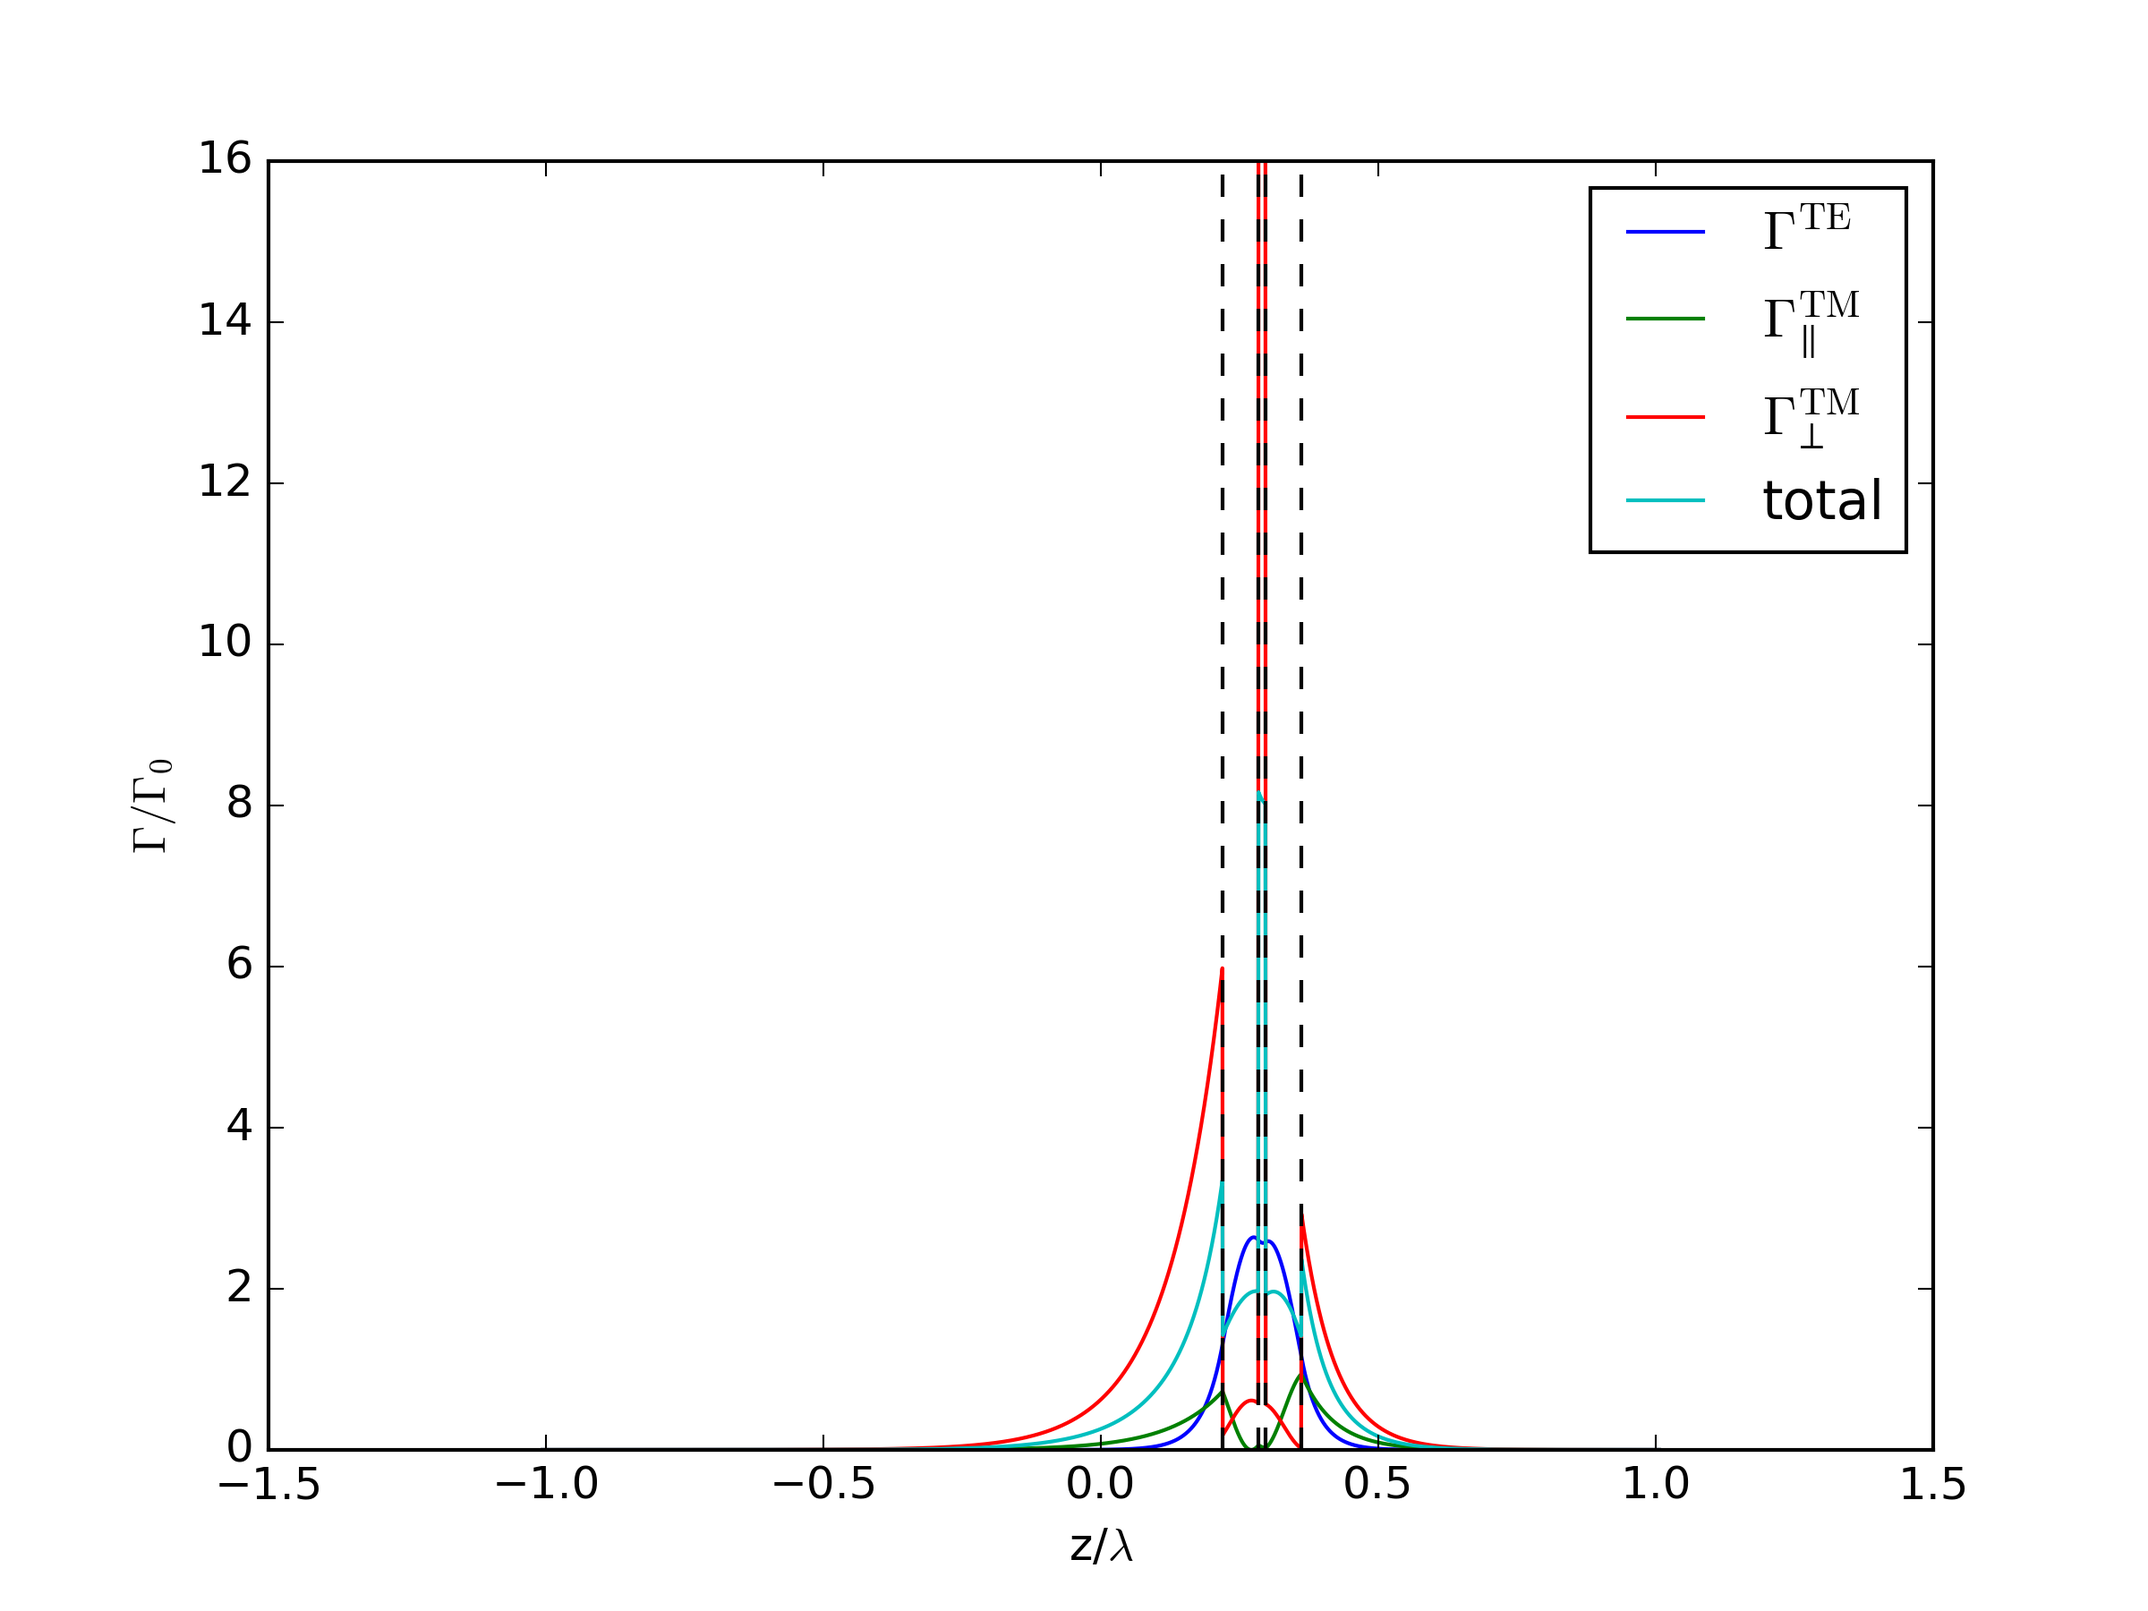
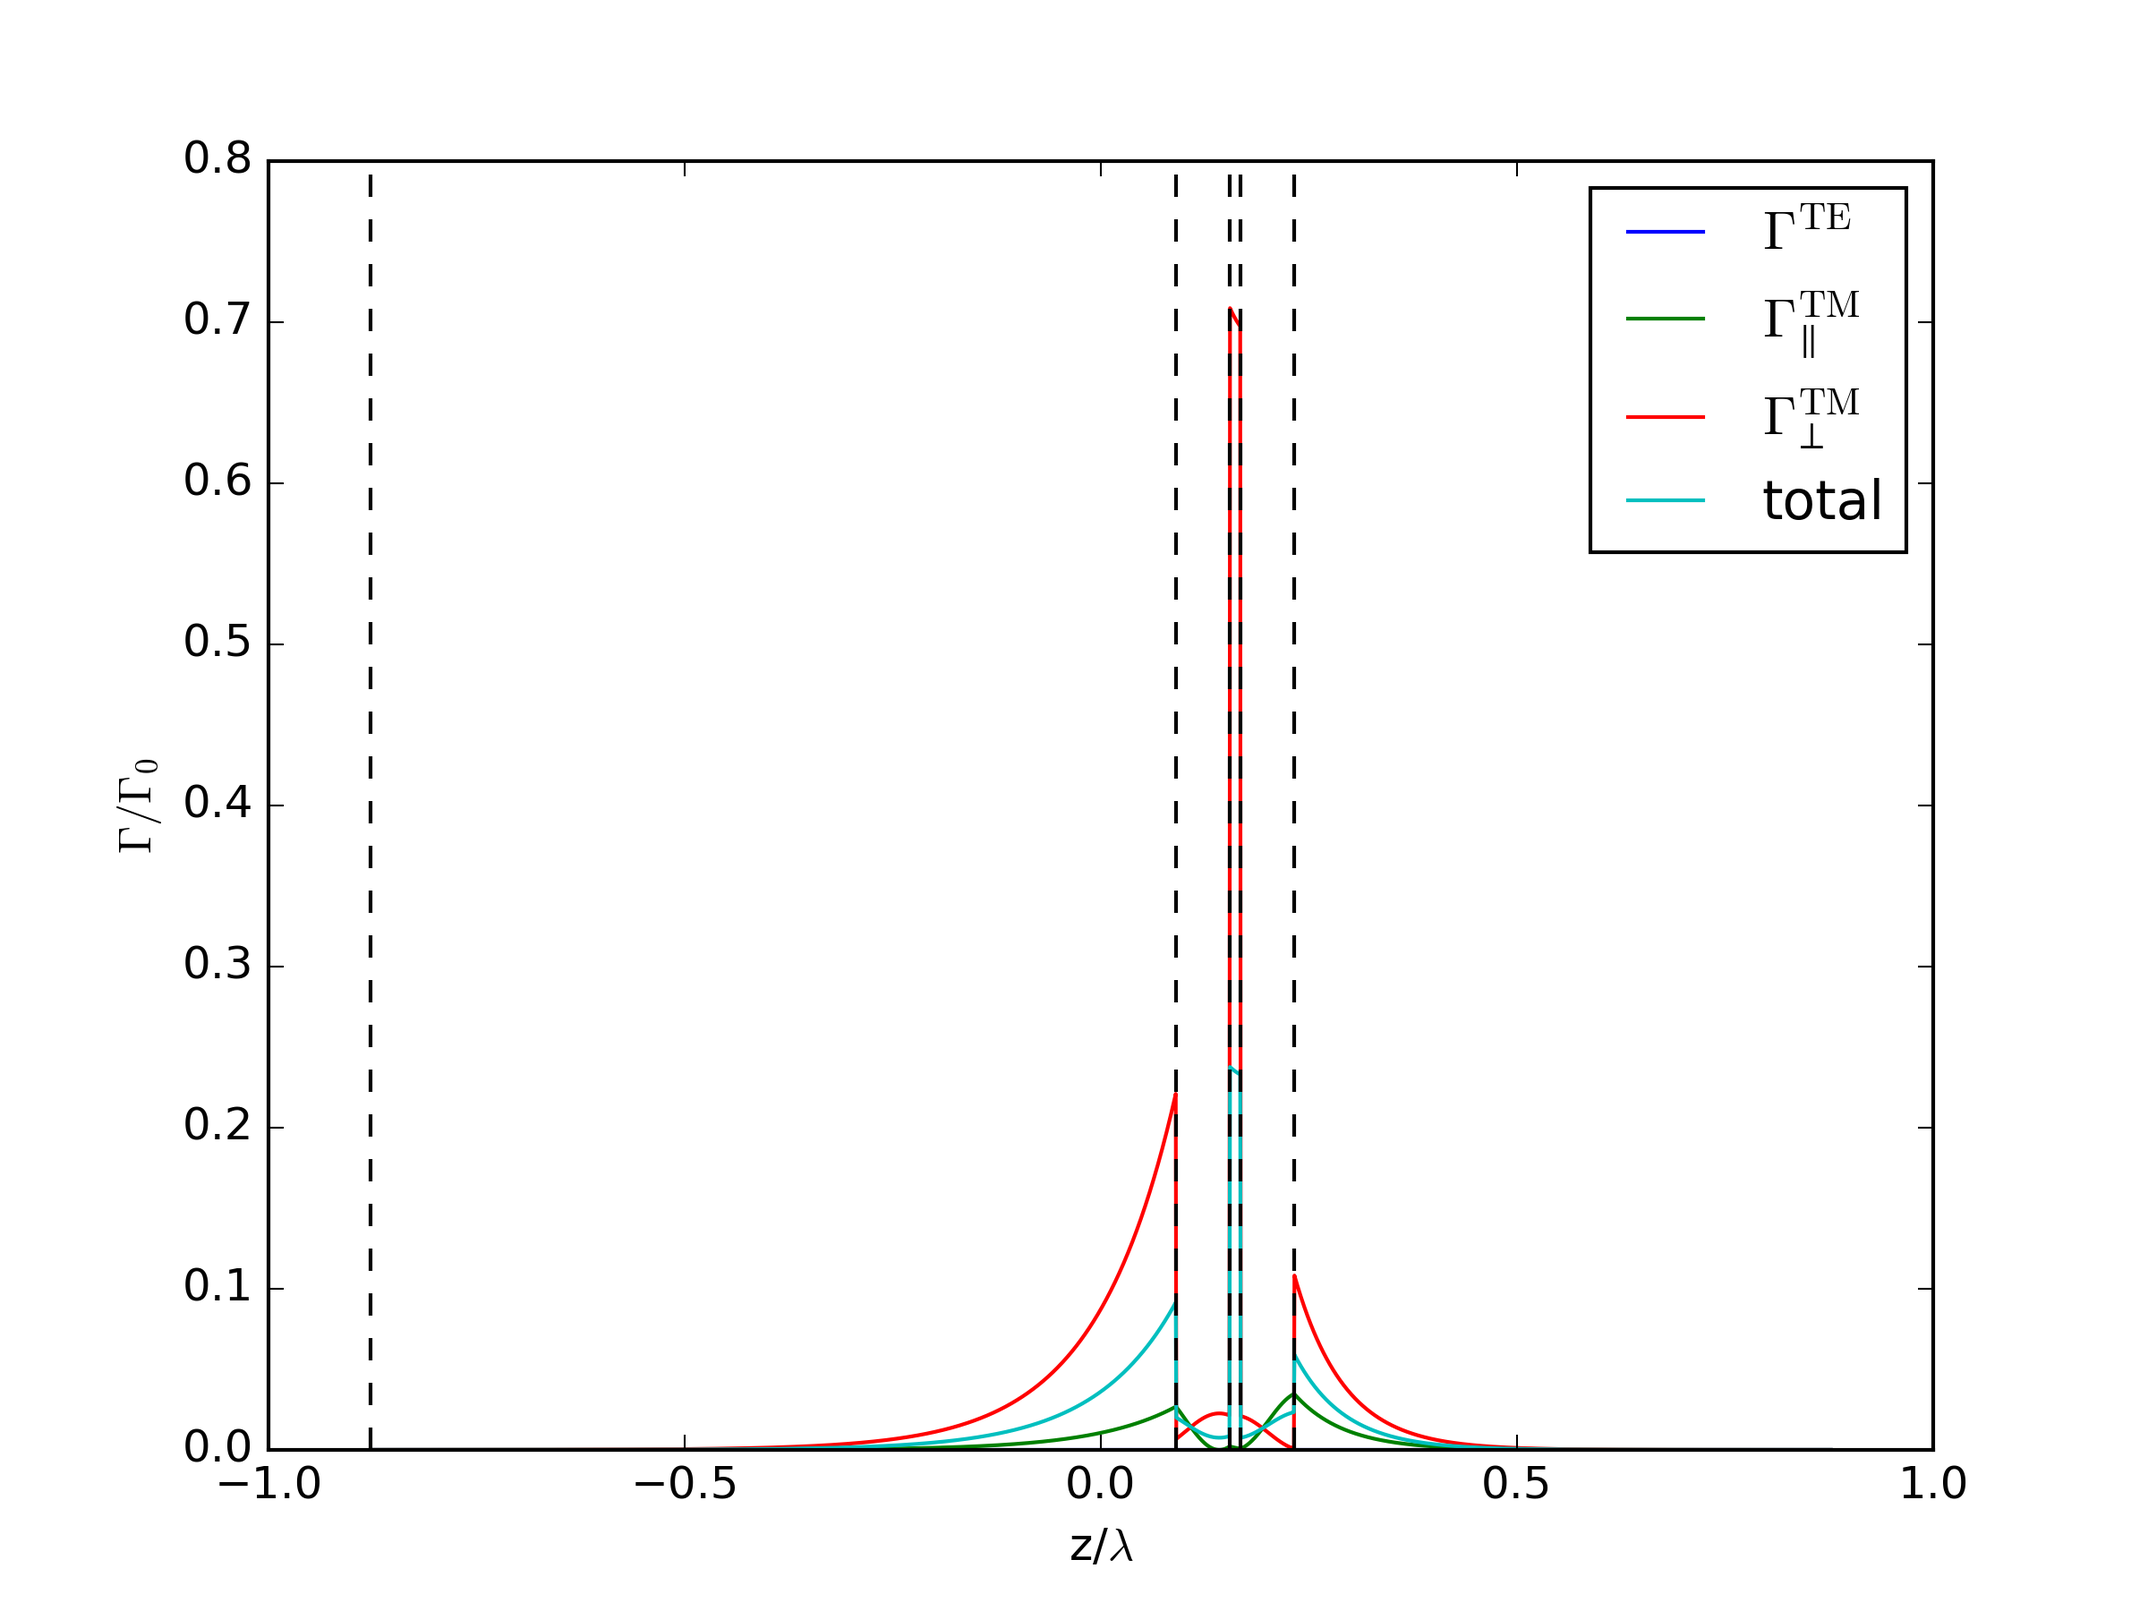
problems with fig 13. Guided modes TM 1.35 x too large. Radiative slot spe increases with th_pow

diff --git a/lifetmm/Methods/TransferMatrix.py b/lifetmm/Methods/TransferMatrix.py
@@ -1,8 +1,12 @@
+import logging
+
 import numpy as np
 from numpy import pi, sqrt, sin, exp
 from scipy.constants import c
 
 from lifetmm.Methods.HelperFunctions import roots, snell, det
+
+log = logging.getLogger(__name__)
 
 
 class TransferMatrix:
@@ -30,8 +34,8 @@ class TransferMatrix:
         """
         assert d >= 0, ValueError('Thickness must >= 0.')
         if not float(d).is_integer():
-            print('WARNING: ROUNDING THICKNESS TO THE NEAREST INTEGER. '
-                  'CONSIDER REDUCING SI UNITS FOR GREATER RESOLUTION.')
+            logging.WARNING('WARNING: ROUNDING THICKNESS TO THE NEAREST INTEGER. '
+                            'CONSIDER REDUCING SI UNITS FOR GREATER RESOLUTION.')
             d = round(d)
         self.d_list = np.append(self.d_list, d)
         self.n_list = np.append(self.n_list, n)
@@ -48,8 +52,8 @@ class TransferMatrix:
                                                         'calculation for each wavelength at a time')
         assert lam_vac > 0, ValueError('Wavelength must > 0.')
         if not float(lam_vac).is_integer():
-            print('WARNING: ROUNDING WAVELENGTH TO THE NEAREST INTEGER. '
-                  'CONSIDER REDUCING SI UNITS FOR GREATER RESOLUTION.')
+            logging.WARNING('WARNING: ROUNDING THICKNESS TO THE NEAREST INTEGER. '
+                            'CONSIDER REDUCING SI UNITS FOR GREATER RESOLUTION.')
             lam_vac = round(lam_vac)
         self.lam_vac = lam_vac
         self.k_vac = 2 * pi / lam_vac
@@ -61,8 +65,8 @@ class TransferMatrix:
         Default is set to 1 if not called explicitly
         """
         if not float(step).is_integer():
-            print('WARNING: ROUNDING STEP TO THE NEAREST INTEGER. '
-                  'CONSIDER REDUCING SI UNITS FOR GREATER RESOLUTION.')
+            logging.WARNING('WARNING: ROUNDING THICKNESS TO THE NEAREST INTEGER. '
+                            'CONSIDER REDUCING SI UNITS FOR GREATER RESOLUTION.')
             step = round(step)
         self.z_step = step
 
@@ -70,19 +74,14 @@ class TransferMatrix:
         """
         Set the mode polarisation to be simulated ('s' or 'TE' and 'p' or 'TM')
         """
-        assert pol in ['s', 'p', 'TE', 'TM'], \
-            ValueError("Polarisation must one of; 's', 'p', 'TE', 'TM'")
-        if self.th != 0:
-            assert pol in ['s', 'p', 'TE', 'TM'], \
-                ValueError("Polarisation must be defined when angle of incidence is not 0$\degree$s")
+        assert pol in ['s', 'p', 'TE', 'TM'], ValueError("Polarisation must one of; 's', 'p', 'TE', 'TM'")
         self.pol = pol
 
     def set_field(self, field):
         """
         Set the field to be evaluated. Either 'E' (default) or 'H' field.
         """
-        if field not in ['E', 'H']:
-            raise ValueError("The field must be either 'E' of 'H'.")
+        assert field in ['E', 'H'], ValueError("The field must be either 'E' of 'H'.")
         self.field = field
 
     def set_leaky_or_guiding(self, mode='leaky'):
@@ -114,7 +113,7 @@ class TransferMatrix:
             self.th = th * (pi / 180)
         else:
             raise ValueError('Units of angle not recognised. Please enter \'radians\' or \'degrees\'.')
-        self.n_11 = self.calc_n_11()
+        self.n_11 = self.n_list[0].real * sin(self.th)
 
     def set_guided_mode(self, n_11):
         """
@@ -127,21 +126,21 @@ class TransferMatrix:
             ValueError('Input n_11 is not valid for a guided mode.', max(n), n_11, min(n[0], n[-1]))
         self.n_11 = n_11
 
-    def calc_n_11(self):
-        if not self.guided:
-            # Continuous across layers, so can evaluate from input theta
-            # and medium for incoming wave (hence leaky mode)
-            return self.n_list[0].real * sin(self.th)
-        else:
-            return self.n_11
+    # def calc_n_11(self):
+    #     if not self.guided:
+    #         # Continuous across layers, so can evaluate from input theta
+    #         # and medium for incoming wave (hence leaky mode)
+    #         return self.n_list[0].real * sin(self.th)
+    #     else:
+    #         return self.n_11
 
     def calc_xi(self, j):
         """
         Normalised perpendicular wave-vector in layer j.
         """
         n = self.n_list[j]  # Normalised layer wave-vector magnitude (k(j)/k_vac)
-        n_11 = self.calc_n_11()  # Normalised layer parallel wave-vector magnitude
-        return sqrt(n ** 2 - n_11 ** 2)
+        # n_11 = self.calc_n_11()  # Normalised layer parallel wave-vector magnitude
+        return sqrt(n ** 2 - self.n_11 ** 2)
 
     def calc_k(self, j):
         """
@@ -161,8 +160,8 @@ class TransferMatrix:
         """
         Parallel wave vector (same in all layers).
         """
-        n_11 = self.calc_n_11()
-        return n_11 * self.k_vac
+        # n_11 = self.calc_n_11()
+        return self.n_11 * self.k_vac
 
     def calc_wave_vector_components(self, j):
         """
@@ -195,8 +194,11 @@ class TransferMatrix:
             # Convert transmission coefficient for E field to that of the H field.
             # The reflection coefficient is the same as the medium does not change.
             t *= n_k / n_j
-        assert t != 0, ValueError("Can't evaluate I_mat when transmission t==0 as 1/t == inf")
-        return (1 / t) * np.array([[1, r], [r, 1]], dtype=complex)
+        # assert t != 0, ValueError("Can't evaluate I_mat when transmission t==0 as 1/t == inf")
+        if t == 0:
+            return np.array([[np.inf, np.inf], [np.inf, np.inf]], dtype=complex)
+        else:
+            return (1 / t) * np.array([[1, r], [r, 1]], dtype=complex)
 
     def l_matrix(self, j):
         """
@@ -269,7 +271,7 @@ class TransferMatrix:
                 field_plus = t_prime / (1 - r_prime_minus * r_dprime * exp(1j * 2 * q * d))
                 field_minus = field_plus * r_dprime * exp(1j * 2 * q * d)
 
-        else:  # Calculate guided amplitudes (2 incoming waves no outgoing)
+        else:  # Calculate guided amplitudes (2 outgoing waves no incoming)
             if layer == 0:
                 field_plus = 0 + 0j
                 field_minus = 1 + 0j
@@ -279,8 +281,7 @@ class TransferMatrix:
                 field_minus = 0 + 0j
             else:
                 s_prime = self.s_primed_matrix(layer)
-                assert not np.isclose(det(s_prime), 0), ValueError(
-                    'Determinant == 0 will give inf for field coefficient.')
+                assert not np.isclose(det(s_prime), 0), ValueError('Det=0 will give inf for field coefficient.')
                 field_plus = - s_prime[0, 1] / det(s_prime)
                 field_minus = s_prime[0, 0] / det(s_prime)
         return field_plus, field_minus
@@ -367,7 +368,7 @@ class TransferMatrix:
         n = self.n_list.real
         assert np.any(n[1:-1] > max(n[0], n[-1])), ValueError('This structure does not support wave guiding.')
         # Find supported guiding modes - max(n_clad) > n_11 >= max(n)
-        n_11 = roots(self._s11, 1.0001 * max(n[0], n[-1]), max(n), verbose=verbose)
+        n_11 = roots(self._s11, 1 * max(n[0], n[-1]), max(n), verbose=verbose)
         # Flip array to arrange from lowest to highest mode (highest to lowest n_11)
         n_11 = n_11[::-1]
 

diff --git a/lifetmm/Examples/creatore.py b/lifetmm/Examples/creatore.py
@@ -4,7 +4,6 @@ Script to recreate the plots in the paper
     'Quantum theory of spontaneous emission in multilayer dielectric structures'
     by Celestino Creatore and Lucio Claudio Andreani.
 """
-
 import matplotlib.pyplot as plt
 
 from lifetmm.Methods.SpontaneousEmissionRate import *
@@ -98,8 +97,8 @@ def fig4():
 
     # Plot internal layer boundaries
     for z in st.get_layer_boundaries()[:-1]:
-        ax1.axvline(st.calc_z_to_lambda(z), color='k', lw=2)
-        ax2.axvline(st.calc_z_to_lambda(z), color='k', lw=2)
+        ax1.axvline(st.calc_z_to_lambda(z), color='k', lw=1, ls='--')
+        ax2.axvline(st.calc_z_to_lambda(z), color='k', lw=1, ls='--')
 
     ax1.set_ylim(0, 1.1)
 
@@ -139,9 +138,8 @@ def fig5():
     ax1.plot(z, spe['TE'] + spe['TM_p'], label='TE + TM')
     ax2.plot(z, spe['TM_s'], label='TM')
     for z in st.get_layer_boundaries()[:-1]:
-        z = st.calc_z_to_lambda(z)
-        ax1.axvline(x=z, color='k', lw=2, zorder=-1)
-        ax2.axvline(x=z, color='k', lw=2, zorder=-1)
+        ax1.axvline(st.calc_z_to_lambda(z), color='k', lw=1, ls='--')
+        ax2.axvline(st.calc_z_to_lambda(z), color='k', lw=1, ls='--')
     ax1.set_ylim(0, 4)
     ax2.set_ylim(0, 6)
     ax1.set_title('Spontaneous Emission Rate. Core n=3.48, Cladding n=1.')
@@ -188,8 +186,8 @@ def fig6():
 
     # Plot layer boundaries
     for z in st.get_layer_boundaries()[:-1]:
-        ax1.axvline(st.calc_z_to_lambda(z), color='r', lw=2)
-        ax2.axvline(st.calc_z_to_lambda(z), color='r', lw=2)
+        ax1.axvline(st.calc_z_to_lambda(z), color='k', lw=1, ls='--')
+        ax2.axvline(st.calc_z_to_lambda(z), color='k', lw=1, ls='--')
 
     ax1.set_ylim(0, 1.4)
     ax2.set_ylim(0, 1.4)
@@ -230,8 +228,8 @@ def fig8():
     ax2.plot(z, spe['TM_s'], label='TM')
     for z in st.get_layer_boundaries()[:-1]:
         z = st.calc_z_to_lambda(z)
-        ax1.axvline(x=z, color='k', lw=2, zorder=-1)
-        ax2.axvline(x=z, color='k', lw=2, zorder=-1)
+        ax1.axvline(x=z, color='k', lw=1, ls='--')
+        ax2.axvline(x=z, color='k', lw=1, ls='--')
     ax1.set_ylim(0, 4)
     ax2.set_ylim(0, 5)
     ax1.set_title('The spatial dependence of the normalized spontaneous emission rate \n'
@@ -279,8 +277,8 @@ def fig9():
 
     # Plot layer boundaries
     for z in st.get_layer_boundaries()[:-1]:
-        ax1.axvline(st.calc_z_to_lambda(z), color='r', lw=2)
-        ax2.axvline(st.calc_z_to_lambda(z), color='r', lw=2)
+        ax1.axvline(st.calc_z_to_lambda(z), color='k', lw=1, ls='--')
+        ax2.axvline(st.calc_z_to_lambda(z), color='k', lw=1, ls='--')
 
     ax1.set_ylim(0, 2)
     ax2.set_ylim(0, 3)
@@ -312,7 +310,7 @@ def fig13a():
     st.print_info()
 
     # Calculate spontaneous emission over whole structure
-    result = st.calc_spe_structure_leaky(th_pow=8)
+    result = st.calc_spe_structure_leaky(th_pow=15)
     z = result['z']
     spe = result['spe']
 
@@ -380,6 +378,7 @@ def fig13b():
         ax1.axvline(st.calc_z_to_lambda(z), color='k', lw=1, ls='--')
 
     ax1.set_ylim(0, 16)
+    ax1.set_xlim(0, 0.5)
     # ax1.set_title('The spatial dependence of the normalized spontaneous emission rate \n'
     #               'into leaky modes for asymmetric Silicon waveguide (SiO2/Si/air).')
     ax1.set_ylabel('$\Gamma / \Gamma_0$')
@@ -390,7 +389,7 @@ def fig13b():
     plt.show()
 
 if __name__ == "__main__":
-    SAVE = True
+    SAVE = False
 
     # Set vacuum wavelength
     lam0 = 1550
@@ -400,11 +399,11 @@ if __name__ == "__main__":
     si = 3.48
     air = 1
 
-    fig3()
-    fig4()
-    fig5()
-    fig6()
+    # fig3()
+    # fig4()
+    # fig5()
+    # fig6()
     fig8()
-    fig9()
-    fig13a()
-    fig13b()
+    # fig9()
+    # fig13a()
+    # fig13b()

diff --git a/lifetmm/Methods/HelperFunctions.py b/lifetmm/Methods/HelperFunctions.py
@@ -1,5 +1,9 @@
+import logging
+
 import numpy as np
 import scipy as sp
+
+log = logging.getLogger(__name__)
 
 
 #####################################################################
@@ -33,22 +37,32 @@ def roots(f, a, b, num=20000, verbose=True):
     """
     import math
     from scipy.optimize import brentq
-    if verbose: print('The roots on the interval [{:f}, {:f}] are:'.format(a, b))
+
+    if verbose:
+        print('The roots on the interval [{:f}, {:f}] are:'.format(a, b))
+    else:
+        logging.debug('The roots on the interval [{:f}, {:f}] are:'.format(a, b))
+
     results = []
     while 1:
         dx = abs(a - b) / num  # alternatively use dx=eps where eps is arg
         x1, x2 = root_search(f, a, b, dx)
         if x1 is not None:
             a = x2
-            root = brentq(f, x1, x2, rtol=1e-9)
+            root = brentq(f, x1, x2, rtol=1e-5)
             if root != 0:
                 # Root is only as accurate as the width of the
                 # element as there could be multiple roots within each dx
                 root = round(root, -int(math.log(dx, 10)))
-                if verbose: print('{:.4f}'.format(root))
                 results.append(root)
+
+                if verbose:
+                    print('{:.4f}'.format(root))
+                else:
+                    logging.debug('{:.4f}'.format(root))
         else:
-            if verbose: print('\nDone')
+            if verbose:
+                print('\nDone')
             return np.array(results)
 
 

diff --git a/lifetmm/Methods/SpontaneousEmissionRate.py b/lifetmm/Methods/SpontaneousEmissionRate.py
@@ -1,3 +1,4 @@
+import logging
 import time
 
 import numpy as np
@@ -7,6 +8,8 @@ from scipy.constants import c
 from tqdm import *
 
 from lifetmm.Methods.TransferMatrix import TransferMatrix
+
+log = logging.getLogger(__name__)
 
 
 class LifetimeTmm(TransferMatrix):

diff --git a/lifetmm/Examples/erbium_film.py b/lifetmm/Examples/erbium_film.py
@@ -255,7 +255,6 @@ def t2_spe_vs_n():
     if SAVE:
         plt.savefig('../Images/t2_vs_n.png', dpi=300)
         np.savez('../Data/t2_vs_n', n=n_list, spe=spe_list, guided=guided_list, leaky=leaky_list)
-
     plt.show()
 
 

diff --git a/lifetmm/__init__.py b/lifetmm/__init__.py
@@ -1,0 +1,4 @@
+import logging
+import sys
+
+logging.basicConfig(stream=sys.stderr, level=logging.DEBUG)
